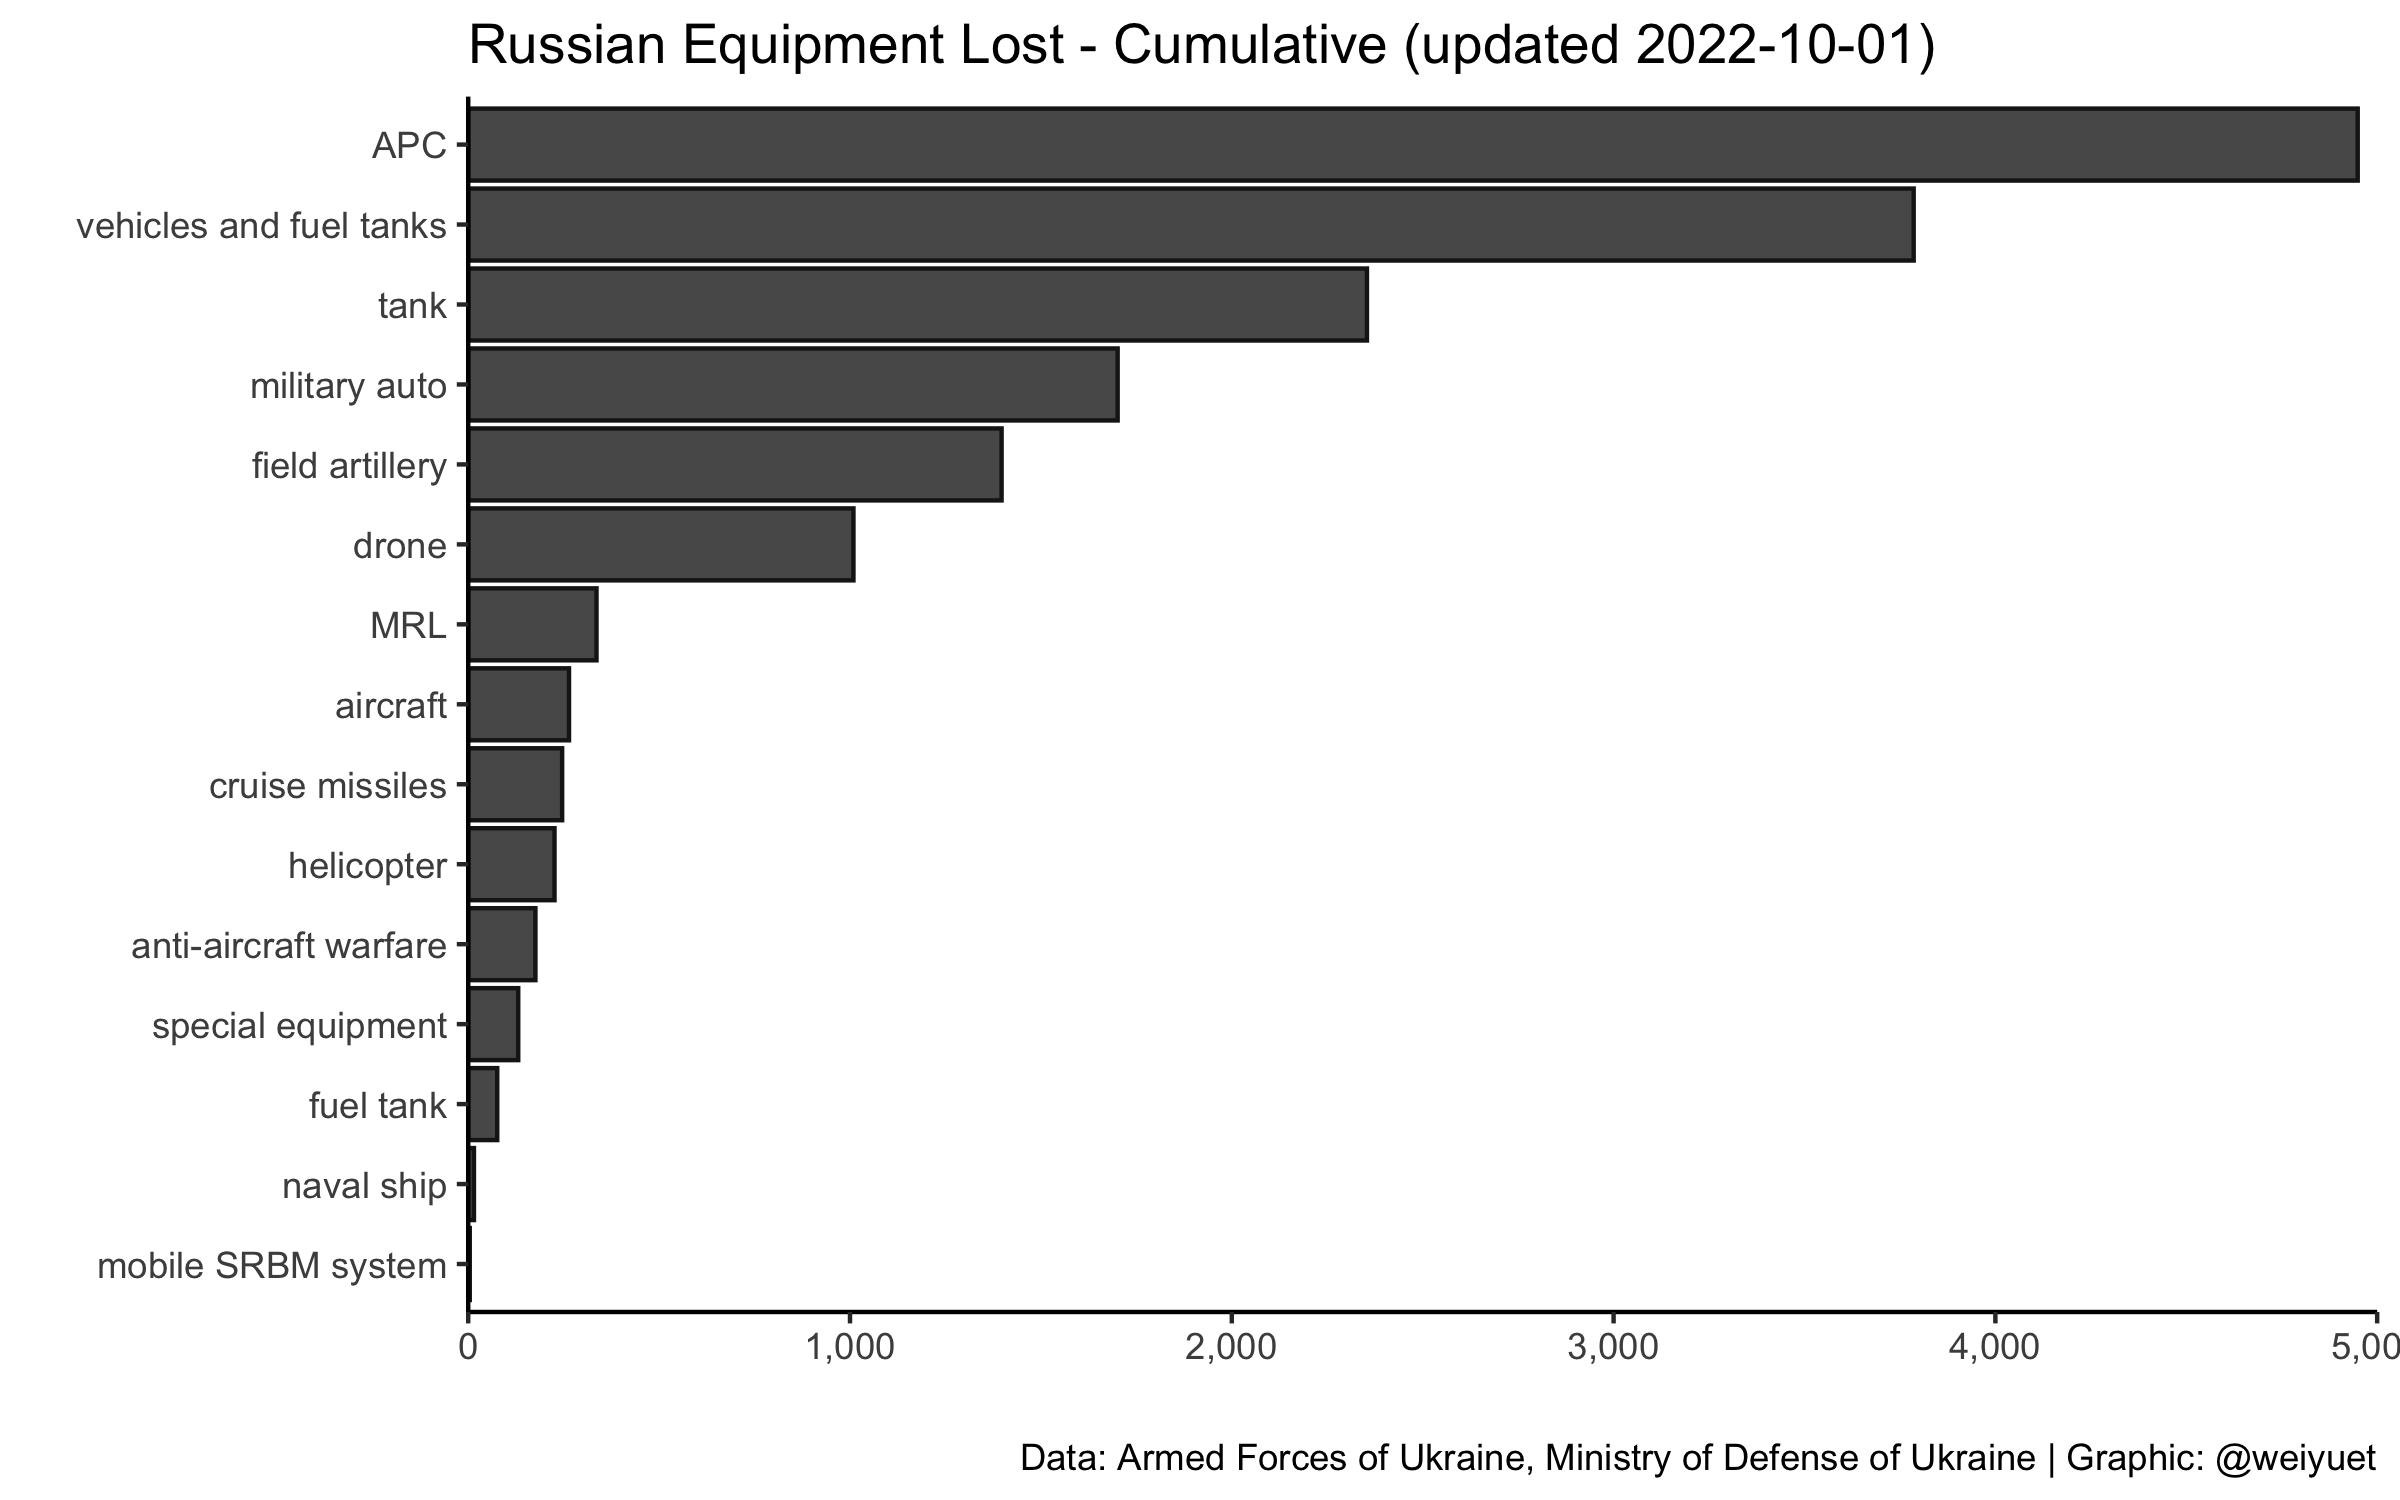
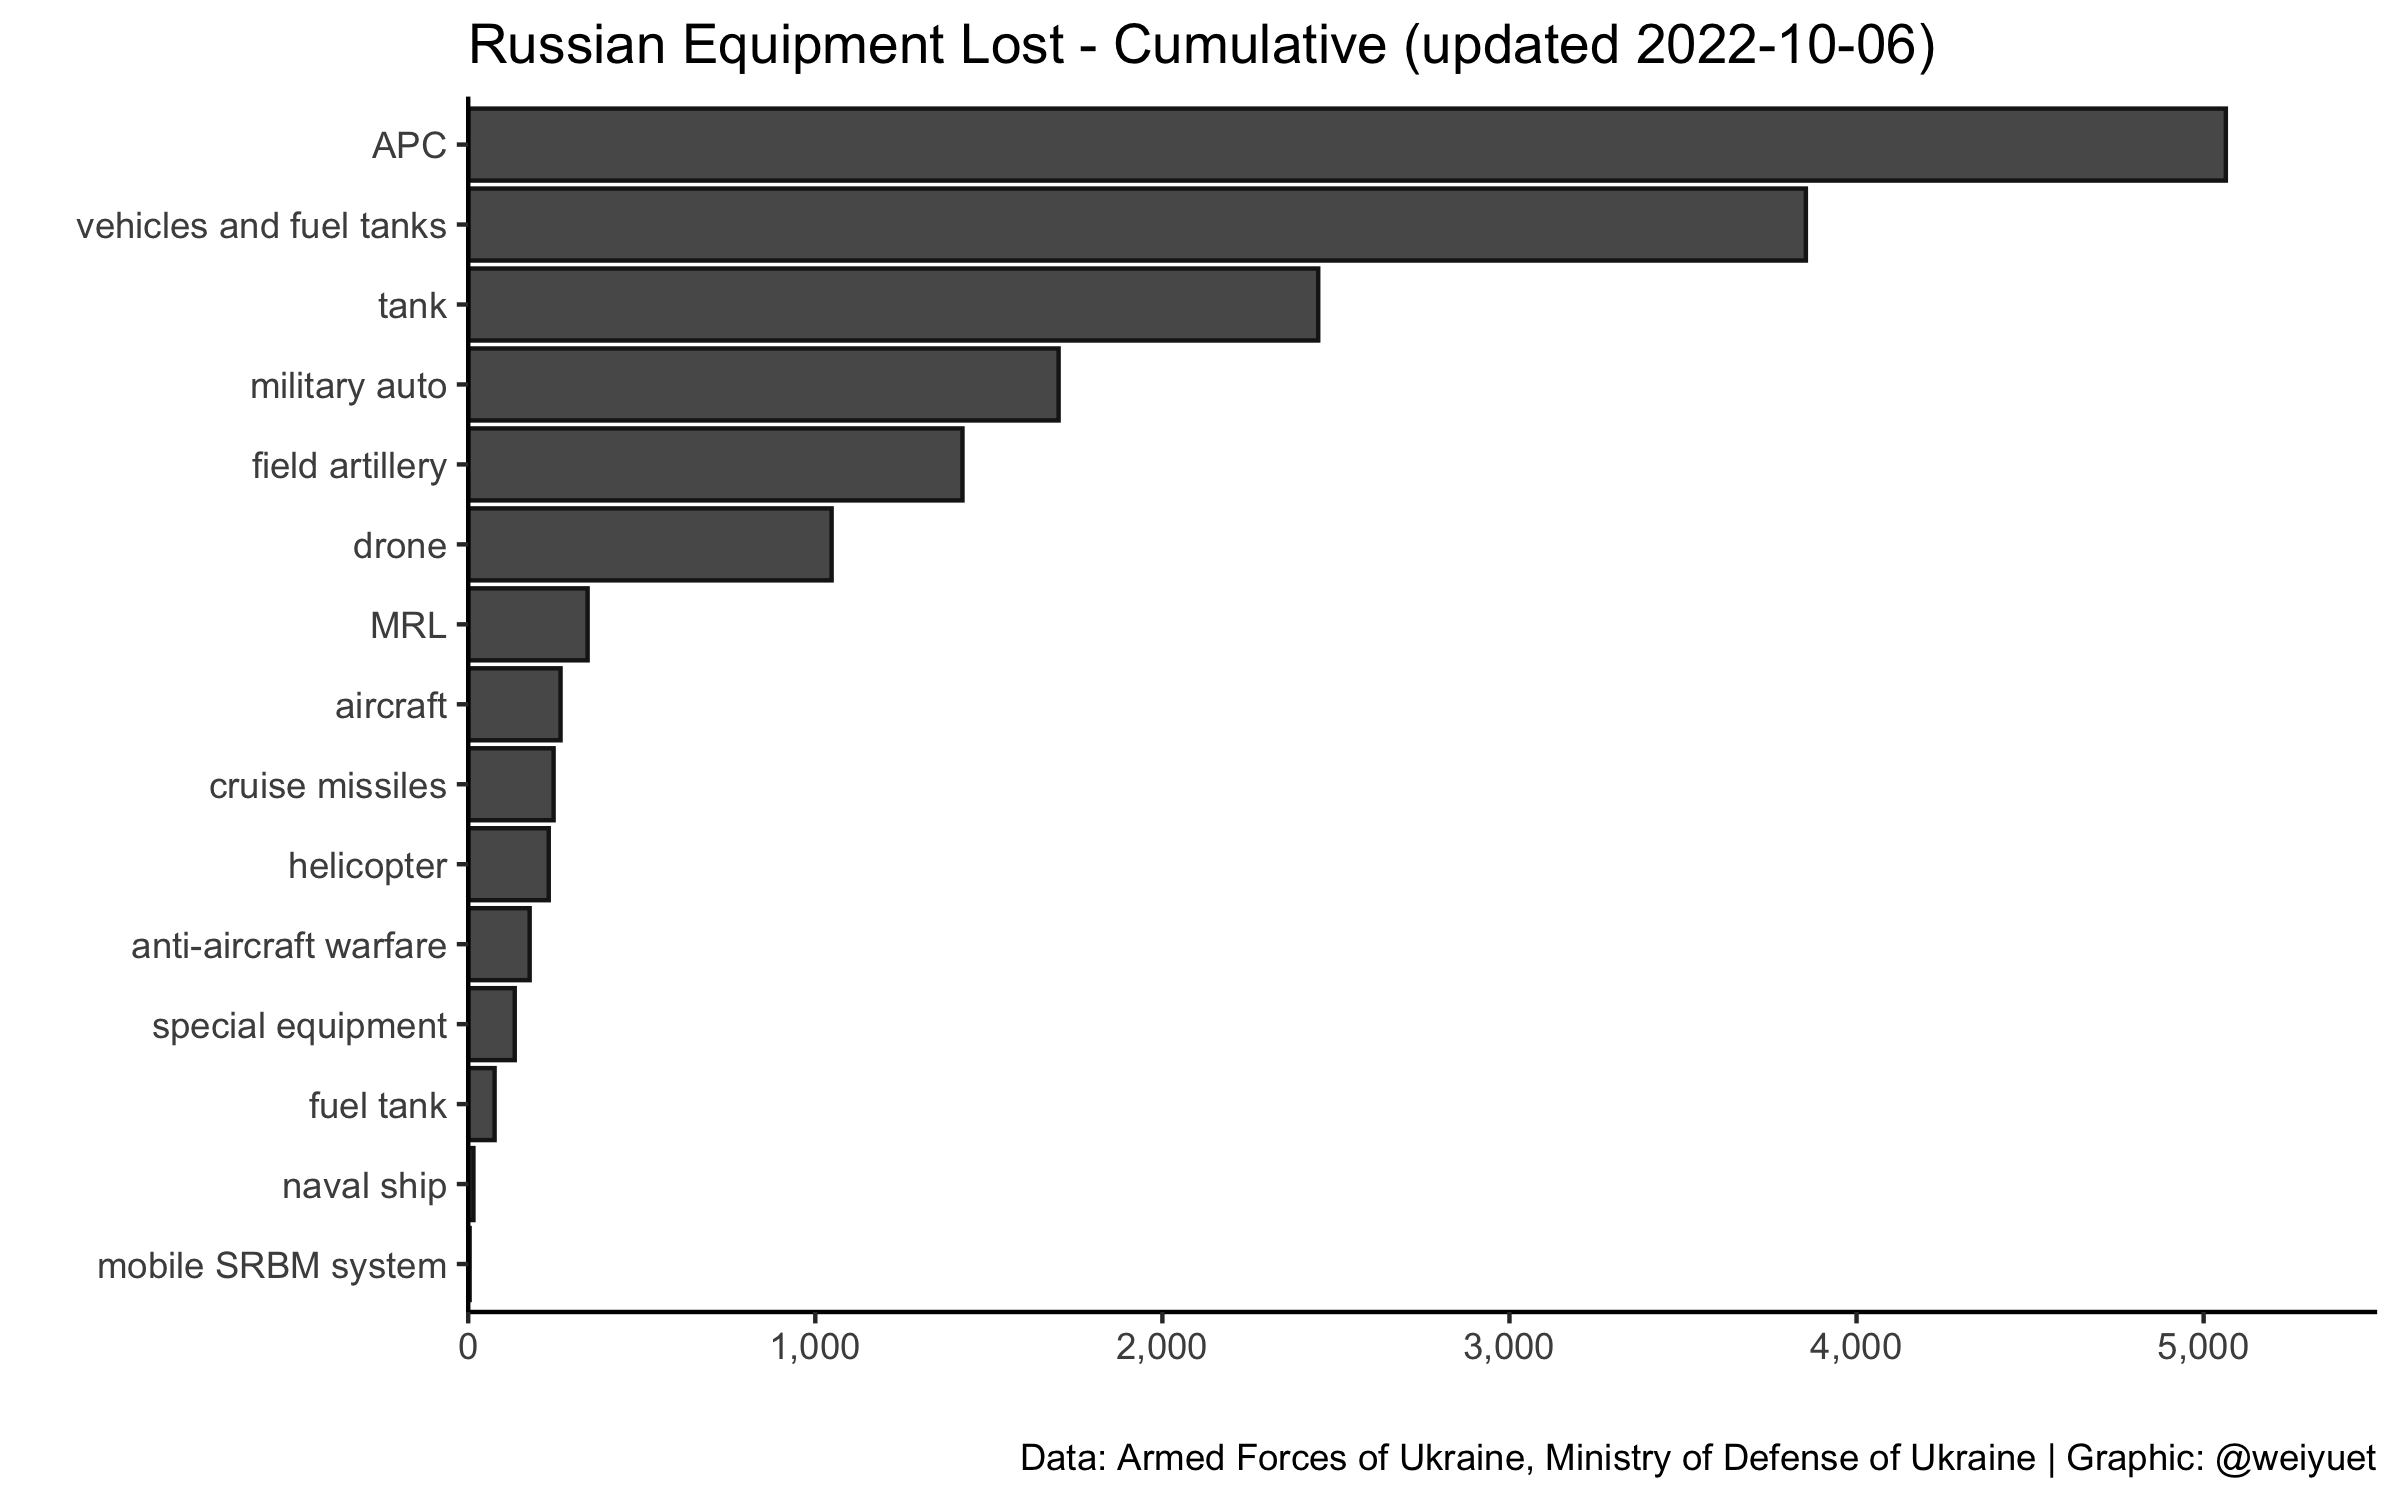
Updated 6 October

diff --git a/data/README.md b/data/README.md
@@ -1,3 +1,3 @@
-Data sources
+Data:
 
-Crude oil production data from [`OECD`](https://data.oecd.org/energy/crude-oil-production.htm)
+Crude oil production data [`OECD`](https://data.oecd.org/energy/crude-oil-production.htm)
